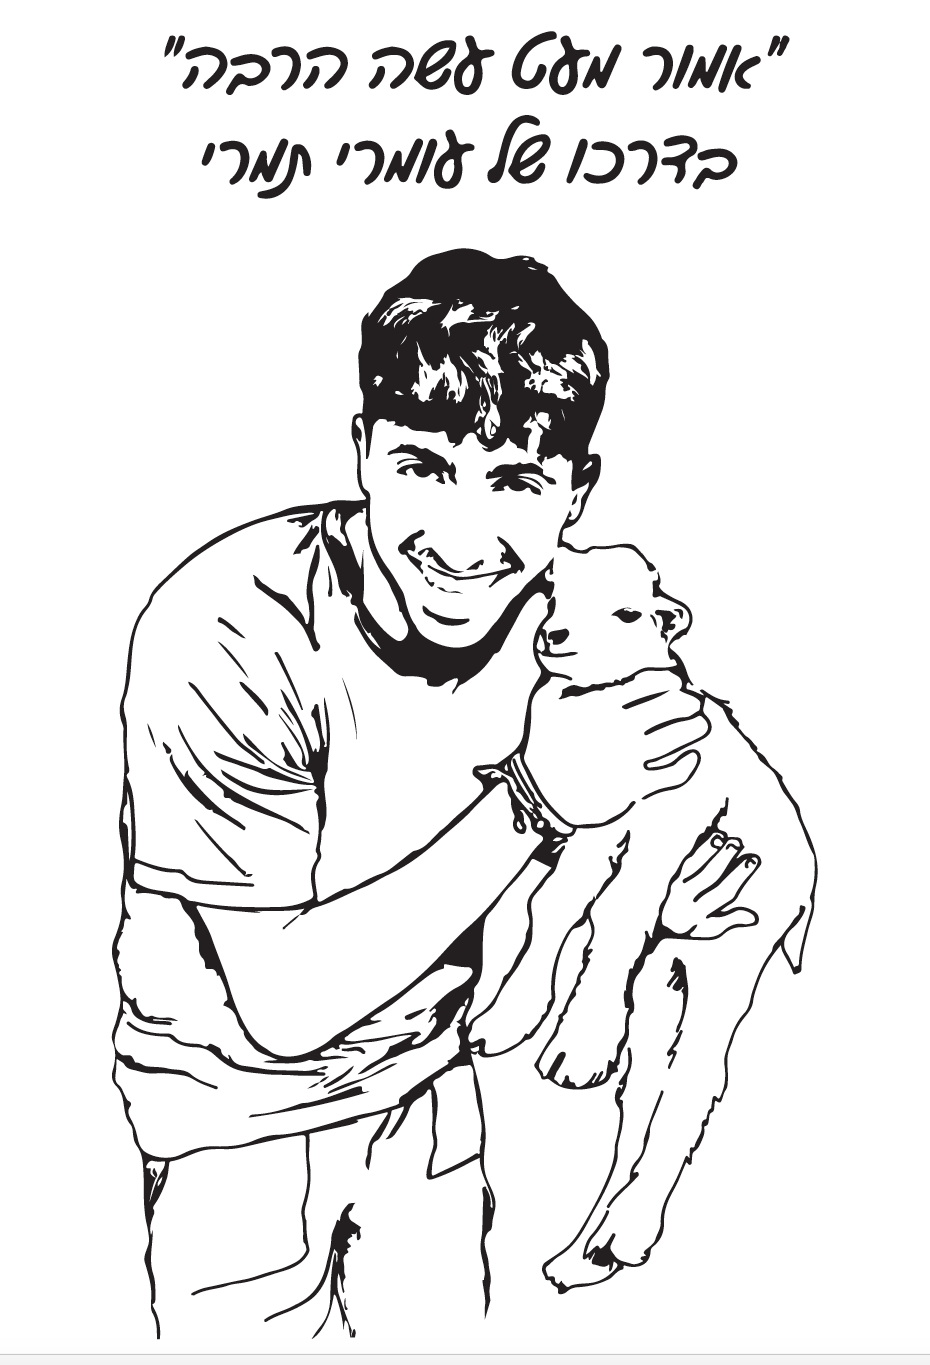
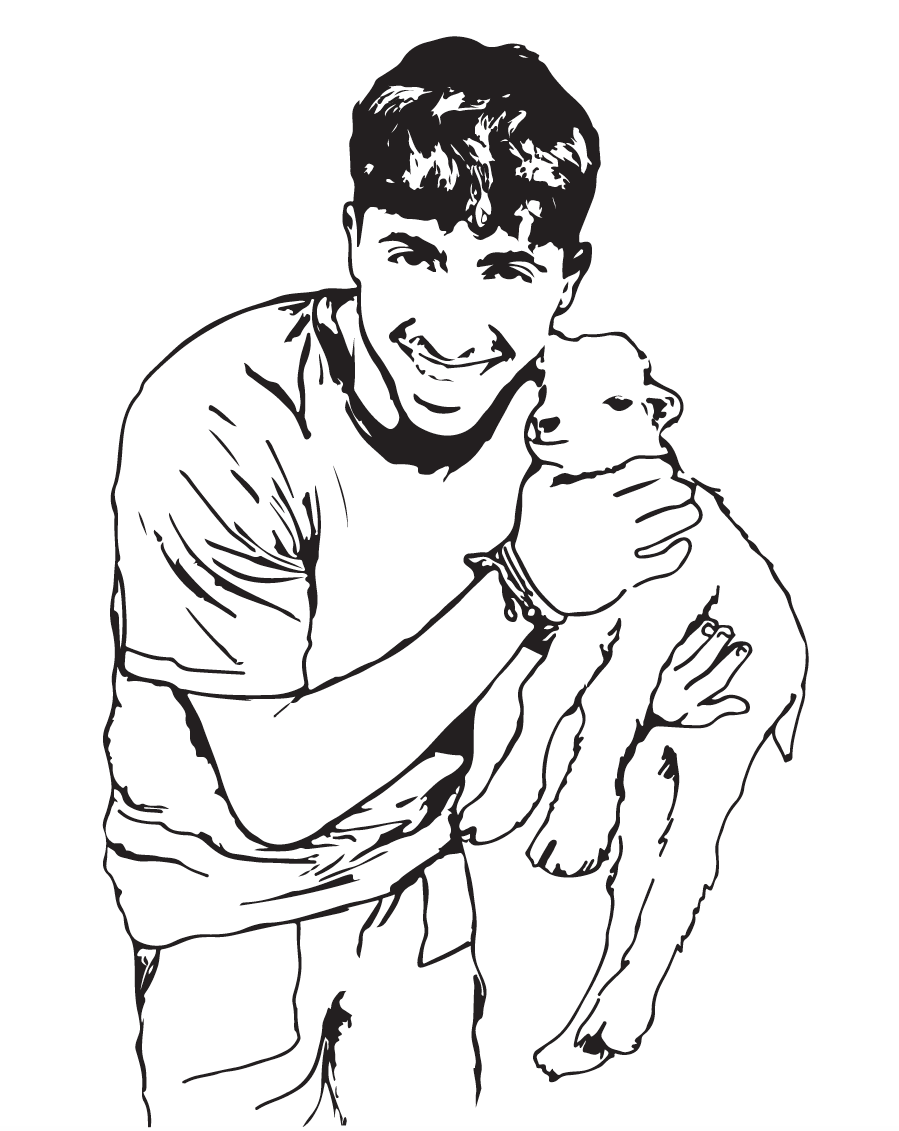
move image glufa to header

diff --git a/style/header.css b/style/header.css
@@ -16,10 +16,109 @@
   margin-right: 0;
 }
 
+.header-project-links {
+  display: flex;
+  flex-wrap: wrap;
+  gap: 0.75rem;
+  align-items: center;
+  justify-content: flex-end;
+  margin-top: 0.25rem;
+}
+
+.header-project-links a {
+  display: inline-flex;
+  align-items: center;
+  justify-content: center;
+  padding: 0;
+  border: none;
+  background: transparent;
+  color: #153d75;
+  font-size: 0.82rem;
+  font-weight: 700;
+  text-decoration: none;
+  white-space: nowrap;
+  transition: opacity 0.2s ease, color 0.2s ease;
+}
+
+.header-about-link {
+  order: 999;
+  width: 52px;
+  height: 52px;
+  border-radius: 50%;
+  overflow: hidden;
+  box-shadow: 0 6px 16px rgba(21, 61, 117, 0.18);
+  background: #f8f1e7;
+  transition: transform 0.2s ease, box-shadow 0.2s ease, opacity 0.2s ease;
+  flex-shrink: 0;
+}
+
+.header-about-link img {
+  width: 100%;
+  height: 100%;
+  display: block;
+  object-fit: cover;
+  object-position: center;
+  image-rendering: auto;
+}
+
+.header-about-link:hover,
+.header-about-link:focus-visible {
+  transform: scale(1.18);
+  box-shadow: 0 10px 22px rgba(21, 61, 117, 0.26);
+}
+
+.header-project-links a:hover,
+.header-project-links a:focus-visible {
+  color: #0d2d57;
+  text-decoration: underline;
+  text-underline-offset: 0.18rem;
+  opacity: 1;
+}
+
+.back-to-top {
+  position: fixed;
+  left: 1.25rem;
+  bottom: 1.25rem;
+  width: 48px;
+  height: 48px;
+  border: none;
+  border-radius: 50%;
+  background: rgba(20, 49, 92, 0.9);
+  color: #fff;
+  font-size: 1.7rem;
+  line-height: 1;
+  cursor: pointer;
+  box-shadow: 0 10px 20px rgba(20, 49, 92, 0.22);
+  z-index: 999;
+  opacity: 0;
+  visibility: hidden;
+  transform: translateY(12px);
+  transition: opacity 0.2s ease, visibility 0.2s ease, transform 0.2s ease;
+}
+
+.back-to-top.visible {
+  opacity: 1;
+  visibility: visible;
+  transform: translateY(0);
+}
+
 @media (max-width: 720px) {
   .site-nav .page-link {
     display: block;
     margin: 0;
     padding: 0.75rem 0;
+  }
+
+  .header-project-links {
+    justify-content: flex-start;
+    margin-top: 0.5rem;
+  }
+
+  .back-to-top {
+    left: 0.9rem;
+    bottom: 0.9rem;
+    width: 44px;
+    height: 44px;
+    font-size: 1.5rem;
   }
 }

diff --git a/assets/main.css b/assets/main.css
@@ -46,8 +46,20 @@ pre { padding: 8px 12px; overflow-x: auto; }
 pre > code { border: 0; padding-right: 0; padding-left: 0; }
 
 /** Wrapper */
-.wrapper { max-width: -webkit-calc(800px - (30px * 2)); max-width: calc(800px - (30px * 2)); margin-right: auto; margin-left: auto; padding-right: 30px; padding-left: 30px; }
-@media screen and (max-width: 800px) { .wrapper { max-width: -webkit-calc(800px - (30px)); max-width: calc(800px - (30px)); padding-right: 15px; padding-left: 15px; } }
+.wrapper {
+  width: 100%;
+  max-width: 100%;
+  margin-right: 0;
+  margin-left: 0;
+  padding-right: 0;
+  padding-left: 0;
+}
+@media screen and (max-width: 800px) {
+  .wrapper {
+    padding-right: 15px;
+    padding-left: 15px;
+  }
+}
 
 /** Clearfix */
 .wrapper:after, .footer-col-wrapper:after { content: ""; display: table; clear: both; }
